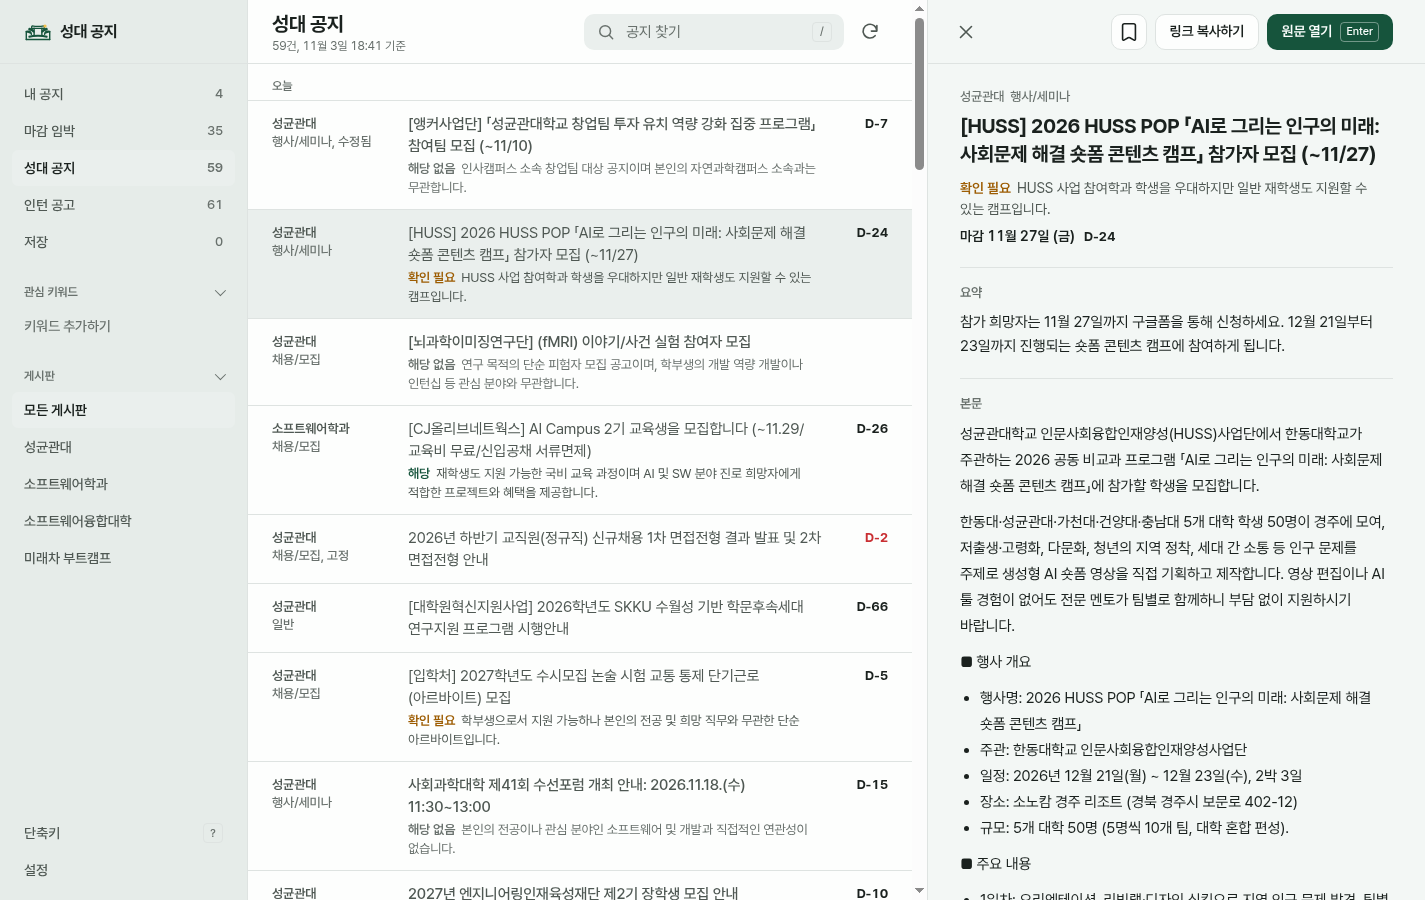
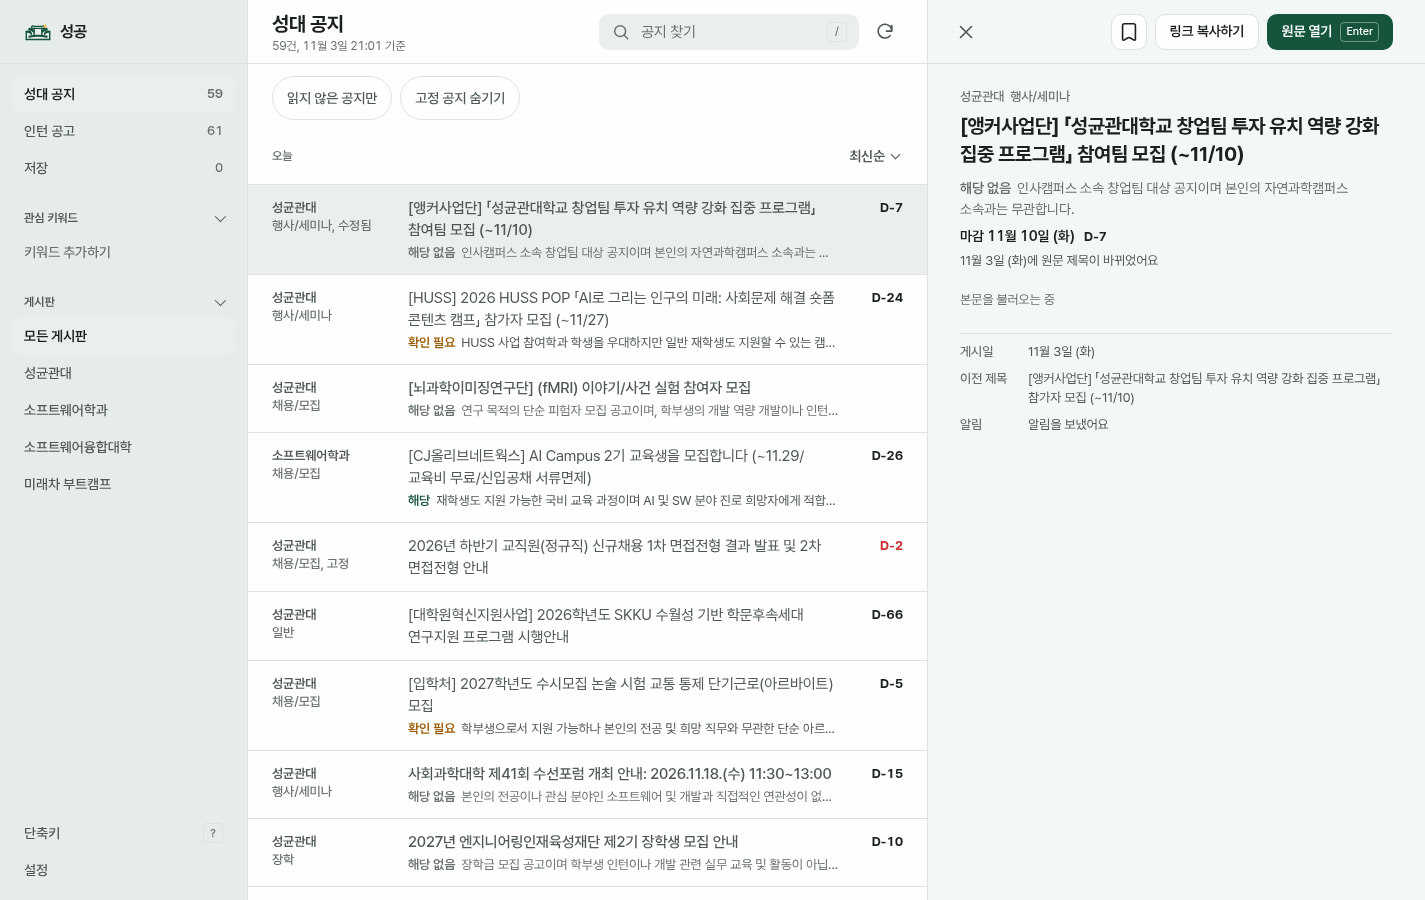
fix(core): 탭별 정렬 기억과 성공 설치 미리보기 갱신
직접 주소로 연 정렬을 재시작 뒤에도 보존하고 브랜드를 피드와 설명에 맞췄다. 전체 검사와 웹 빌드, 12개 테스트를 통과했다.

diff --git a/web/src/notice-app.ts b/web/src/notice-app.ts
@@ -158,6 +158,8 @@ export class NoticeApp extends LitElement {
     super.connectedCallback();
     // 새 문서는 목록에서 시작한다. 이전 문서의 상세 history 상태가 설정 닫기에서 되살아나지 않게 맞춘다.
     if (history.state?.notice) history.replaceState(null, '');
+    remember('notice-sort', this.sort);
+    remember('intern-sort', this.internSort);
     applyTheme(this.theme);
     this.refresh();
     this.syncFromGitHub();
@@ -365,6 +367,8 @@ export class NoticeApp extends LitElement {
       if (view === 'intern') this.internSort = requested;
       else if (view === 'all') this.sort = requested;
     }
+    remember('notice-sort', this.sort);
+    remember('intern-sort', this.internSort);
     if (view !== this.view) { this.view = view; this.selectedId = null; }
   };
 

diff --git a/src/skku_notice/feeds.py b/src/skku_notice/feeds.py
@@ -31,7 +31,7 @@ def deadlines_ics(notices: list[dict], board_names: dict[str, str], now: datetim
     """One all-day event per notice deadline, so calendar apps can subscribe to it."""
     lines = [
         "BEGIN:VCALENDAR", "VERSION:2.0", "PRODID:-//skku-notice-alert//deadlines//KO", "CALSCALE:GREGORIAN",
-        "METHOD:PUBLISH", "X-WR-CALNAME:성대 공지 마감", "X-WR-TIMEZONE:Asia/Seoul",
+        "METHOD:PUBLISH", "X-WR-CALNAME:성공 마감", "X-WR-TIMEZONE:Asia/Seoul",
         "REFRESH-INTERVAL;VALUE=DURATION:PT6H", "X-PUBLISHED-TTL:PT6H",
     ]
     stamp = now.astimezone(UTC).strftime("%Y%m%dT%H%M%SZ")
@@ -74,7 +74,7 @@ def rss_feed(notices: list[dict], board_names: dict[str, str], now: datetime) ->
         )
     return (
         '<?xml version="1.0" encoding="UTF-8"?>\n<rss version="2.0"><channel>'
-        f"<title>성대 공지</title><link>{escape(SITE_URL)}</link>"
+        f"<title>성공</title><link>{escape(SITE_URL)}</link>"
         "<description>성균관대 공지 게시판 새 글</description><language>ko</language>"
         f"<lastBuildDate>{format_datetime(now)}</lastBuildDate>{''.join(items)}</channel></rss>\n"
     )

diff --git a/src/skku_notice/gcal.py b/src/skku_notice/gcal.py
@@ -52,7 +52,7 @@ def desired_events(notices: list[dict], saved: list[dict], now: datetime,
             continue
         events[_event_id(notice["id"])] = {
             "summary": f"[{kind}] {notice.get('title_ko') or notice['title']}"[:250],
-            "description": f"{notice['url']}\n성대 공지 앱이 넣은 일정이에요.",
+            "description": f"{notice['url']}\n성공이 넣은 일정이에요.",
             "start": {"dateTime": start.isoformat(), "timeZone": "Asia/Seoul"},
             "end": {"dateTime": end.isoformat(), "timeZone": "Asia/Seoul"},
             "source": {"title": "원문", "url": notice["url"]},

diff --git a/src/skku_notice/export.py b/src/skku_notice/export.py
@@ -42,7 +42,7 @@ def export_site(
     notices = {
         "version": 1,
         "generated_at": stamp,
-        # external: 외부 인턴 공고(D-026, 추가 필드). 화면은 전체와 마감 임박에서 뺀다.
+        # external: 외부 인턴 공고(D-026, 추가 필드). 화면은 성대 공지 탭에서 뺀다.
         "sources": [{"id": source["id"], "name": source["name"], "url": source["url"],
                      **({"external": True} if source.get("external") else {})} for source in sources],
         # title_ko는 영어 공지를 옮긴 제목(추가 필드, D-010 API v1 유지).

diff --git a/src/skku_notice/__init__.py b/src/skku_notice/__init__.py
@@ -1,1 +1,1 @@
-"""성대 공지 맞춤 알림. 모듈 경계는 AGENTS.md 1절의 파이프라인을 따른다."""
+"""성공, 성균관대 공지 알림. 모듈 경계는 AGENTS.md 1절의 파이프라인을 따른다."""

diff --git a/docs/daily-log/2026-11-03.md b/docs/daily-log/2026-11-03.md
@@ -217,3 +217,10 @@
 - 검증: 웹 빌드와 웹 테스트 통과. Claude 교차 리뷰에서 지적한 날짜 없는 공고가 기본 보기에서 사라지는 문제를 정렬로 해결하고 회귀 테스트를 추가했다. 서비스 워커를 켠 실제 브라우저에서 목록 59건의 오프라인 재열기와 탐색을 확인했다. 설치 정보 오류는 없고 자동 브라우저의 시크릿 모드로 실제 설치만 제한됐다. 최종 배포 후 두 스크립트로 다시 검증한다.
 
 - 이름 선택 응답 "성공이라고 하자"를 받아 임시 이름을 성공으로 확정하고 설치 정보와 화면, 알림에 반영한다(D-030).
+
+## 30. [core] 정렬 기억과 성공 이름, 실제 웨일 확인 (Codex)
+
+- 검증 중 47개 흐름에서 직접 주소의 정렬이 다른 탭 재시작 뒤 저장되지 않는 1건을 찾았다. 문서 시작과 뒤로 가기에서도 탭별 정렬을 기기에 기억하도록 보완했다.
+- 이름은 README, RSS와 ICS 제목, 캘린더 설명에도 성공으로 맞췄다. 기존 구글 캘린더 이름과 PWA 식별자는 유지했다. 설치 안내 미리보기도 정식 사이트에서 새로 찍었다.
+- 웹 빌드와 12개 웹 테스트, 전체 검사 통과. PWA 6개 검사 통과, 자동 브라우저의 시크릿 제한 외 오류 없음. Windows 개발용 웨일에서 실제 정식 화면을 캡처했고 설치 가능성 오류가 없음을 확인했다. 실제 OS 설치 자체는 수행하지 않았다.
+- 보조 글자 대비 측정: 라이트 기준 시각 4.95:1과 게시판 4.97:1, 다크 5.66:1과 5.62:1. 정적 디자인 독립 평가 8.1. 수정 후 47개 흐름을 다시 확인한다.

diff --git a/README.md b/README.md
@@ -1,4 +1,4 @@
-# skku-notice-alert
+# 성공
 
 성균관대 공지 게시판(전체 공지, 소프트웨어학과 공지)을 15분마다 읽고, **내가 정한 기준에 맞는 글만** 휴대폰과 PC에 알림으로 보낸다.
 알림을 누르면 원문이 열린다. PC가 꺼져 있어도 GitHub Actions에서 돈다. 같은 데이터를 JSON API로도 낸다.
@@ -9,7 +9,7 @@
 
 ## 사이트 열기
 
-휴대폰과 PC에서는 [성대 공지](https://aniseongu.github.io/skku-notice-alert/)를 연다. PC를 켜 두거나 로컬 서버를 실행할 필요가 없다. 브라우저에서 앱으로 설치하면 아이콘으로 열 수 있다.
+휴대폰과 PC에서는 [성공](https://aniseongu.github.io/skku-notice-alert/)를 연다. PC를 켜 두거나 로컬 서버를 실행할 필요가 없다. 브라우저에서 앱으로 설치하면 아이콘으로 열 수 있다.
 
 `Publish website`가 화면을 GitHub Pages에 배포한다. `main`에 `web/` 변경을 push하면 자동 실행되며, Actions에서 수동으로 실행할 수도 있다. 알림 키 없이도 배포할 수 있다. 공개 archive가 있으면 그 판정과 본문을 사용하고, 첫 배포에는 공개 게시판 목록을 읽어 표시한다. 공지 자동 수집과 알림은 아래 `Notice and Pages` 설정을 마친 뒤 켠다.
 

diff --git a/docs/DESIGN.md b/docs/DESIGN.md
@@ -1,4 +1,4 @@
-# DESIGN - 성대 공지 화면 디자인 체계
+# DESIGN - 성공 화면 디자인 체계
 
 > `web/`(Vite, Lit, PWA) 화면의 정본이다. 코드는 이 문서에서 파생한다(calm-design 방식: 문서 먼저, 코드는 그다음).
 > UI와 UX 규칙은 `docs/design/ux-rules.md`, 웹과 설치 앱(PWA)의 차이는 `docs/design/platforms.md`, 근거 자료는 `docs/design/references.md`.
@@ -48,7 +48,7 @@ OKLCH 토큰을 `light-dark()`로 한 번에 정의한다(웨일 확장 DESIGN 4
 | AI 이유 | 14/21 | 400, 판정어는 600 | 해당 재학생 대상 장학 |
 | 메타 | 13/18 | 500, `--text-3` | 소프트웨어학과 장학 |
 | D-day | 14/18 | 700 | D-2 |
-| 탭 라벨 | 12/16 (모바일), 15/22 (사이드바) | 600 | 마감 임박 |
+| 탭 라벨 | 12/16 (모바일), 15/22 (사이드바) | 600 | 인턴 공고 |
 
 - 100에서 300 굵기는 쓰지 않는다. 헤드라인 자간을 더 좁히지 않는다(칼름 #19).
 
